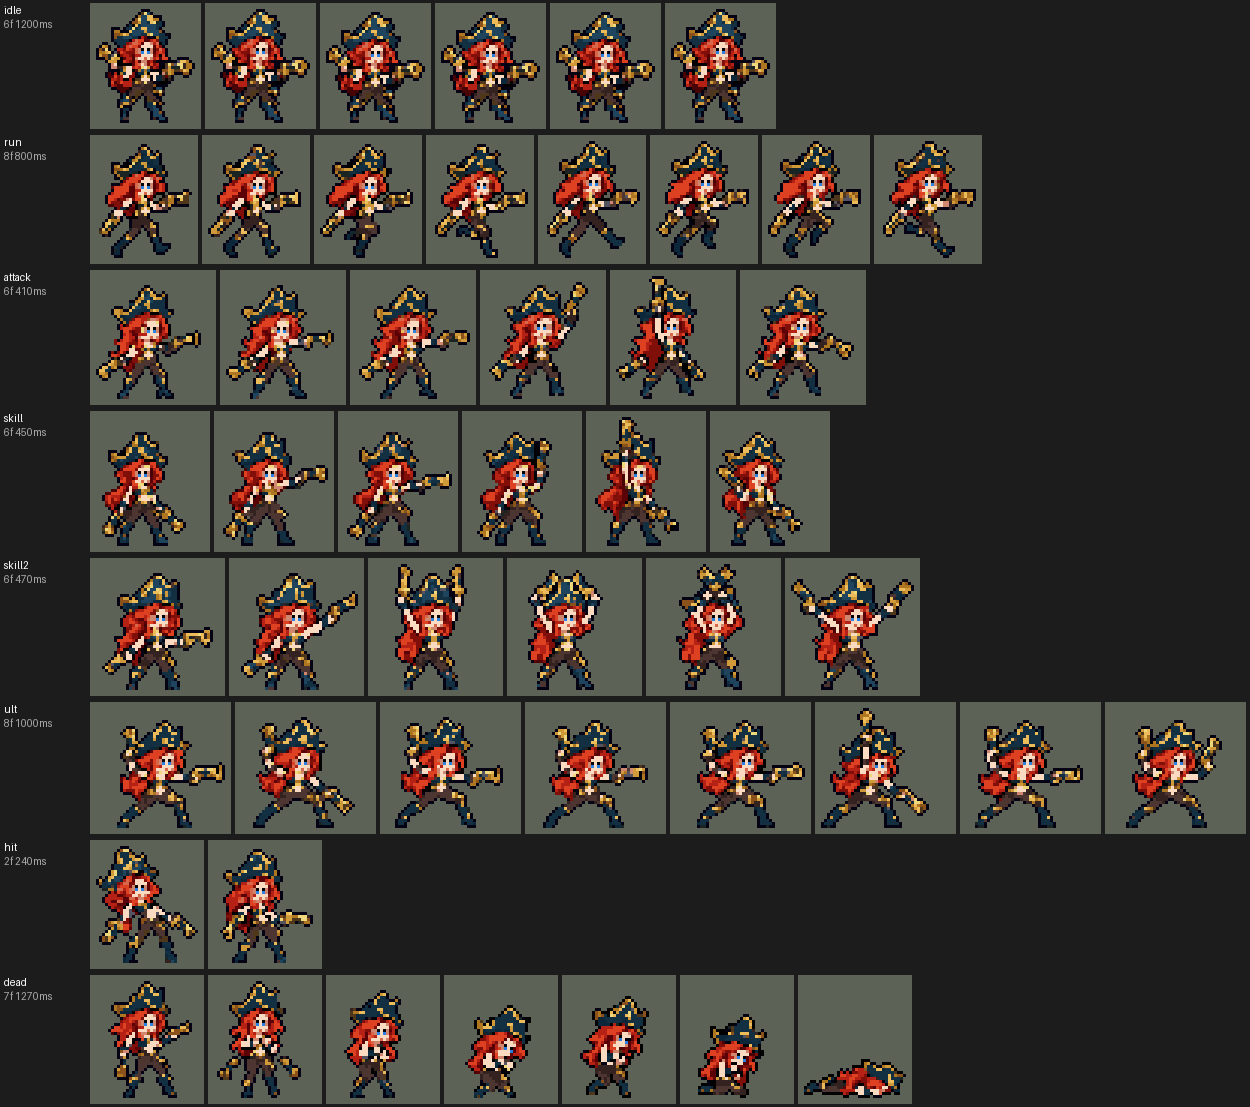
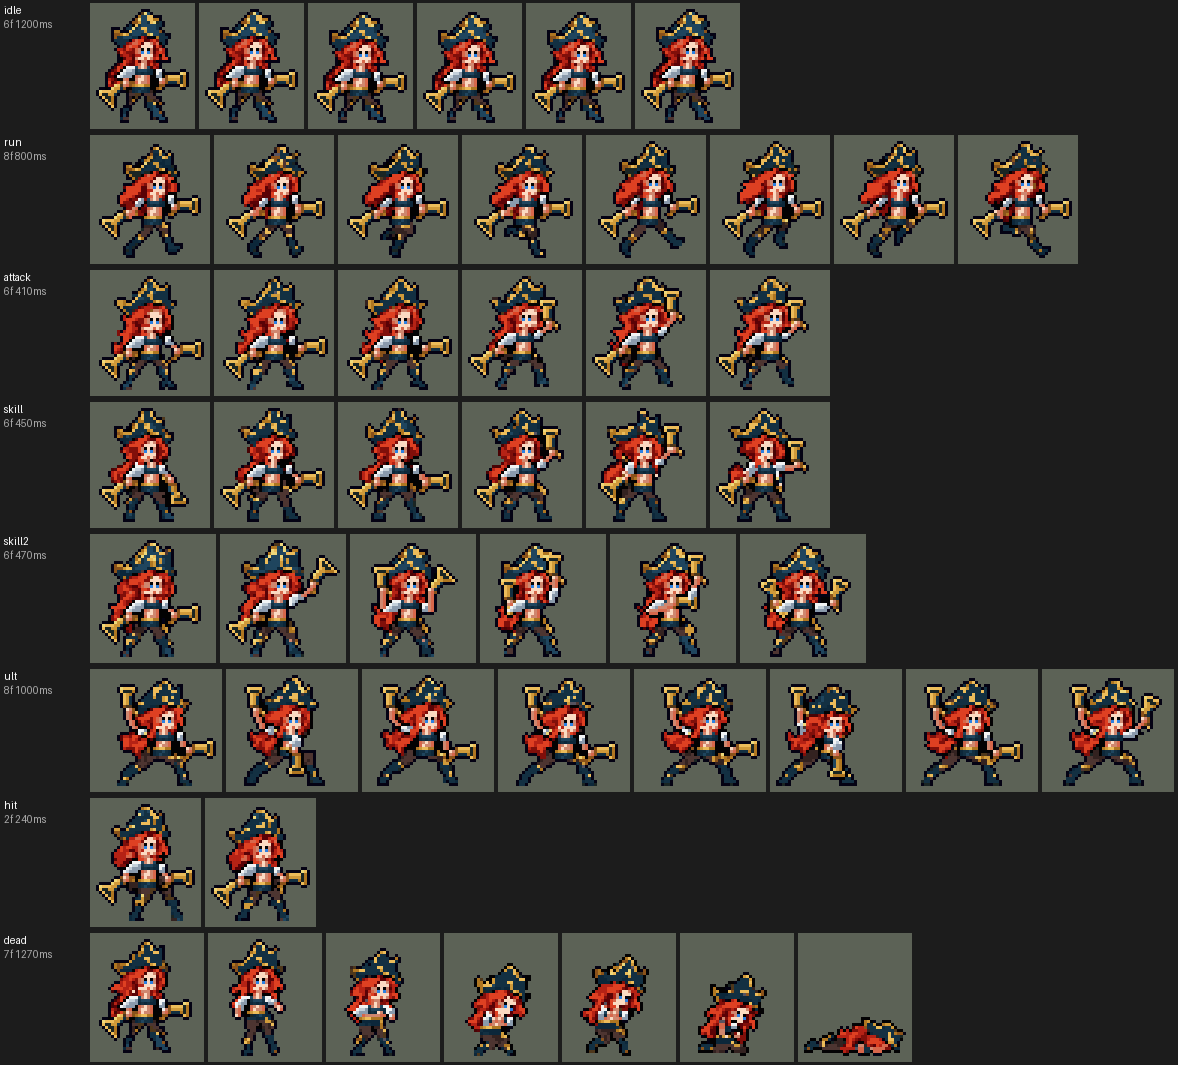
README and previews: Aatrox (#51) and Miss Fortune's model fix
The hero list and group 11's top, Aatrox's showcase and combos GIFs, his
section (kit, numbers, sprites, the airborne World Ender casts, how to
rebuild); Miss Fortune's sprite row notes today's traced model and
pistols; her previews re-rendered.

diff --git a/README.md b/README.md
@@ -2,7 +2,7 @@
 
 团战经理2（Teamfight Manager 2）的英雄联盟英雄 Mod，mod_id 是 `league`。纯数据 mod：不改游戏本体，不需要编译。
 
-英雄：盖伦（`league_garen`）、艾希（`league_ashe`）、拉克丝（`league_lux`）、李青（`league_leesin`）、索拉卡（`league_soraka`）、德莱厄斯（`league_darius`）、阿木木（`league_amumu`）、亚索（`league_yasuo`）、金克丝（`league_jinx`）、蕾欧娜（`league_leona`）、提莫（`league_teemo`）、易（`league_masteryi`）、安妮（`league_annie`）、厄运小姐（`league_missfortune`）、迦娜（`league_janna`）、墨菲特（`league_malphite`）、艾克（`league_ekko`）、永恩（`league_yone`）、伊泽瑞尔（`league_ezreal`）、锤石（`league_thresh`）、凯尔（`league_kayle`）、费德提克（`league_fiddlesticks`）、阿狸（`league_ahri`）、卢锡安（`league_lucian`）、莫甘娜（`league_morgana`）、锐雯（`league_riven`）、贝蕾亚（`league_briar`）、阿卡丽（`league_akali`）、薇恩（`league_vayne`）、娜美（`league_nami`）、贾克斯（`league_jax`）、黛安娜（`league_diana`）、维迦（`league_veigar`）、塔里克（`league_taric`）、崔丝塔娜（`league_tristana`）、菲奥娜（`league_fiora`）、菲兹（`league_fizz`）、萨科（`league_shaco`）、凯特琳（`league_caitlyn`）、魔腾（`league_nocturne`）、布里茨（`league_blitzcrank`）、卡蜜尔（`league_camille`）、乐芙兰（`league_leblanc`）、卡莎（`league_kaisa`）、娑娜（`league_sona`）、凯南（`league_kennen`）、蔚（`league_vi`）、瑞兹（`league_ryze`）、烬（`league_jhin`）、基兰（`league_zilean`）。每组上单、打野、中单、ADC、辅助各一：第一组盖伦、李青、拉克丝、艾希、索拉卡，第二组德莱厄斯、阿木木、亚索、金克丝、蕾欧娜，第三组提莫、易（无极剑圣）、安妮、厄运小姐、迦娜，第四组墨菲特、艾克、永恩、伊泽瑞尔、锤石，第五组有上单凯尔、打野费德提克、中单阿狸、ADC 卢锡安、辅助莫甘娜，第六组有上单锐雯、打野贝蕾亚、中单阿卡丽、ADC 薇恩、辅助娜美，第七组有上单贾克斯、中单维迦、ADC 崔丝塔娜、辅助塔里克，第八组有上单菲奥娜（剑姬，排在原定凯南的位置，凯南延后）、中单菲兹、ADC 凯特琳、辅助布里茨，第九组有上单卡蜜尔（青钢影）、打野魔腾、中单乐芙兰、ADC 卡莎、辅助娑娜。按用户 10 月 2 日排的顺序，打野黛安娜是第七组的，萨科是第八组的。第十组有上单凯南、打野蔚、中单瑞兹、ADC 烬、辅助基兰。
+英雄：盖伦（`league_garen`）、艾希（`league_ashe`）、拉克丝（`league_lux`）、李青（`league_leesin`）、索拉卡（`league_soraka`）、德莱厄斯（`league_darius`）、阿木木（`league_amumu`）、亚索（`league_yasuo`）、金克丝（`league_jinx`）、蕾欧娜（`league_leona`）、提莫（`league_teemo`）、易（`league_masteryi`）、安妮（`league_annie`）、厄运小姐（`league_missfortune`）、迦娜（`league_janna`）、墨菲特（`league_malphite`）、艾克（`league_ekko`）、永恩（`league_yone`）、伊泽瑞尔（`league_ezreal`）、锤石（`league_thresh`）、凯尔（`league_kayle`）、费德提克（`league_fiddlesticks`）、阿狸（`league_ahri`）、卢锡安（`league_lucian`）、莫甘娜（`league_morgana`）、锐雯（`league_riven`）、贝蕾亚（`league_briar`）、阿卡丽（`league_akali`）、薇恩（`league_vayne`）、娜美（`league_nami`）、贾克斯（`league_jax`）、黛安娜（`league_diana`）、维迦（`league_veigar`）、塔里克（`league_taric`）、崔丝塔娜（`league_tristana`）、菲奥娜（`league_fiora`）、菲兹（`league_fizz`）、萨科（`league_shaco`）、凯特琳（`league_caitlyn`）、魔腾（`league_nocturne`）、布里茨（`league_blitzcrank`）、卡蜜尔（`league_camille`）、乐芙兰（`league_leblanc`）、卡莎（`league_kaisa`）、娑娜（`league_sona`）、凯南（`league_kennen`）、蔚（`league_vi`）、瑞兹（`league_ryze`）、烬（`league_jhin`）、基兰（`league_zilean`）、亚托克斯（`league_aatrox`）。每组上单、打野、中单、ADC、辅助各一：第一组盖伦、李青、拉克丝、艾希、索拉卡，第二组德莱厄斯、阿木木、亚索、金克丝、蕾欧娜，第三组提莫、易（无极剑圣）、安妮、厄运小姐、迦娜，第四组墨菲特、艾克、永恩、伊泽瑞尔、锤石，第五组有上单凯尔、打野费德提克、中单阿狸、ADC 卢锡安、辅助莫甘娜，第六组有上单锐雯、打野贝蕾亚、中单阿卡丽、ADC 薇恩、辅助娜美，第七组有上单贾克斯、中单维迦、ADC 崔丝塔娜、辅助塔里克，第八组有上单菲奥娜（剑姬，排在原定凯南的位置，凯南延后）、中单菲兹、ADC 凯特琳、辅助布里茨，第九组有上单卡蜜尔（青钢影）、打野魔腾、中单乐芙兰、ADC 卡莎、辅助娑娜。按用户 10 月 2 日排的顺序，打野黛安娜是第七组的，萨科是第八组的。第十组有上单凯南、打野蔚、中单瑞兹、ADC 烬、辅助基兰。第十一组的上单亚托克斯（剑魔）。
 
 对敌人放的小技能，施放目标是「敌人（不含防御塔）」，清线、打野时也会放；只有大招、德莱厄斯的 E（拉人）、阿木木的 Q（绷带）、锤石的 Q（钩子）、阿狸的 E（魅惑）、薇恩的 E（恶魔审判）、维迦的 E（扭曲空间）、凯特琳的 W（约德尔诱捕器）、卡莎的 W（虚空索敌）和基兰的 E（时光发条）只对英雄放（莫甘娜的 Q 对什么都放，但射程内有敌方英雄时朝英雄射；贝蕾亚的 Q 也一样，射程内有敌方英雄时扑英雄；娜美的 W、Q 也是，射程内有敌方英雄时打英雄；黛安娜的 Q 也一样，射程内有敌方英雄时朝英雄射，E 带着月光再冲的第二下也先找英雄；菲奥娜的 Q、W 也一样，射程内有敌方英雄时冲向、刺向英雄；凯特琳的 Q 也一样，射程内有敌方英雄时朝英雄射；凯南的 Q 也一样，射程内有敌方英雄时锁定英雄射）；提莫的 W 是给自己加速和伪装，也只在敌方英雄靠近时放。最早几个英雄的小技能只对英雄放，打野时一直平 A 野怪，按玩家反馈改了。
 
@@ -96,6 +96,8 @@
 ![瑞兹演示：卢锡安站在他身后，他跑进场，双手推出符文法球打德莱厄斯；Q 超负荷：蓝色的符文光弹打中他；E → W → Q 连招：紫色的法术涌动在德莱厄斯身上炸开，涌动（紫色符文绕着胸口转）也挂到他身后的盖伦身上，符文禁锢的蓝色牢笼把带涌动的德莱厄斯困住，再一发超负荷引爆两人身上的涌动（闪电劈下、紫色爆开），腰间充好的两枚符文放出、脚下起风加速；德莱厄斯和盖伦往后撤，德莱厄斯跑出射程，R 曲境折跃追过去：脚下开一个传送门，另一个开在德莱厄斯脚边，引导一秒后他和站在门里的卢锡安一起传送过去（原地一道光柱，落地符文爆发，卢锡安身上一闪），落地补的法术涌动又给德莱厄斯挂上涌动](docs/preview/league_ryze_showcase.gif?v=1003ry2)
 ![烬演示：跑进场，低语连开三枪（抬枪时一闪，枪口青白色的火，金色子弹）；第四枪先耍一圈枪，玫红光环从枪口转出，暴击炸开花瓣，头顶的四颗子弹开始一颗颗装上；装弹时扔出曼舞手雷，打中德莱厄斯后翻滚着落到身后的盖伦身上再炸；W 致命华彩：先把莲花扔到德莱厄斯脚下，手杖枪射出紫色光晕的长弹，他被定身（脚下的玫瑰荆棘），莲花在他脚下开花、减速，2 秒后炸成火焰；R 完美谢幕：跪地架起大炮，身边升起玫红光幕，连开四炮，第四发暴击，德莱厄斯倒下，尸体上开出一朵莲花再炸开](docs/preview/league_jhin_showcase.gif?v=1003jh)
 ![基兰演示：卢锡安站在他身前，基兰飘进场，时光法球打德莱厄斯；Q 定时炸弹抛到德莱厄斯身上粘住（胸口的炸弹在倒计时），W 穿梭未来：身后的钟面倒转，再扔一颗，两颗炸弹一起爆，德莱厄斯和身后的盖伦被眩晕（头顶转着小金钟）；E 时光发条：德莱厄斯腰上紫色的钟圈减速，卢锡安脚下金色的钟圈加速，攒满的瓶子倒在卢锡安头上；再扔一颗炸弹粘在德莱厄斯身上，下一发法球打死他，炸弹当场爆炸、炸到盖伦；盖伦走到卢锡安身边，致命打击沉默他，R 时光倒流：基兰脚下亮起金色符文钟，卢锡安头顶挂上时光符文，盖伦转着砍他也死不了，5 秒后回溯回血](docs/preview/league_zilean_showcase.gif?v=1003zl)
+![亚托克斯演示：他走进场砍两刀，强化普攻（赐死剑气）的剑光；暗裔利刃三段：蓄力时地上先出警示，暗影冲决在蓄力中途冲刺，再一剑劈下（剑刃边缘的火柱和击飞）；恶火束链：爪子甩出锁链缠住德莱厄斯，地上的圈 1.5 秒后把他拖回圈心；大灭：展开双翼腾空，翅膀光环，开大后的普攻和 Q 都在空中出招，击杀刷新](docs/preview/league_aatrox_showcase.gif)
+![亚托克斯连招：Q1 → W → Q2 → Q3（锁链把人拖回圈心再吃满 Q3）；Q1 → 普攻 → Q2 → 强化普攻 → Q3；R → Q1 → Q2 → Q3（空中出招，击杀刷新大招）](docs/preview/league_aatrox_combos.gif)
 
 ## 英雄：盖伦
 
@@ -605,7 +607,7 @@ python tools/art/preview_annie.py
 | 大招 | R「弹幕时间」：原地引导 3 秒，朝施放时锁定的方向（`Position` 施法）连射 12 波，每波对 50° 锥形（±25°，`Forward` + `DirDot`，长 100000）内的敌人造成 15 + 45% 攻击力的物理伤害，动作类型是普攻，所以每波都吃暴击率。模拟里眩晕打断不了已经排好的延时效果，所以每一波先找"自己身边 1 格内被控制的友方英雄"（就是她自己）：被眩晕、禁锢、击飞、击退、恐惧、魅惑时下一波起停止；她死了也停（每波检查引导 buff）。只对英雄放，冷却 50 秒。2026-10-01 加宽：原来是 40°（±20°），而且只管画面的矩形（`LineRangeProjectile` 100000 × 36000，没有效果）作用对象写的是敌人，AI 把它当成要躲的技能，每一波都往两边让、让出了锥形：下路 144 局里每次 R 打中英雄 4.75 次（每波 0.43 个，三分之二的波一个英雄都没打中），射程内敌方英雄偏离中线的中位角度从第 1 波的 5° 涨到第 12 波的 50°。只加宽锥形帮助不大（±25° 5.1 次、±30° 5.4 次、±35° 5.7 次），矩形改窄到 1000 宽、锥形 ±25° 是 6.6 次；现在锥形 ±25°，矩形只作用于友方（`applied_target: Ally`，大小和画面不变；敌人不再躲它，友方也没有去躲）：每次 R 7.1 次（每波 0.67 个）。击杀差两批 +3.34 / +2.78（改前 +2.77 / +3.09，在两批之间的波动以内），造成的伤害多 5% |
 | 数值 | 攻击 100（+20）、生命 900（+90）、护甲 20（+7）、魔抗 15（+3）、移速 900（+9），攻击间隔 1 秒，和原版射手一样。没有其他 mod 做过她，数值是自己设计的，用 SDK 对战模拟调：打下路，三套队友阵容、两边各 36 局，团队击杀差 +4.41；原版射手 `gunner` +3.43、`soldier` +2.74、`archer` +2.43、`gambler` +1.91，本包艾希 +3.78、金克丝 +4.19。按美术定下的出手帧（普攻、Q、E、R 都在第 8 tick），初版（被动 60%、E 冷却 9 秒）是 +5.50，改成被动 40%、E 冷却 10 秒。再把 R 每波降到 40% 是 +4.47，没有差别，所以 R 保持 45%。Q 改成宽子弹找第二个目标后是 +4.39（同样的局，修前 +4.41），伤害略高，数值不用动 |
 | 亚索联动 | 她只有减速，不算亚索大招要的控制，亚索不用调 |
-| 精灵图 | 8 个动作 49 帧：待机、跑步、普攻、Q、E、R、受击、死亡。帽顶到脚底 36 px（原版戴帽子的赌徒 36、枪手 37 也把帽子算在内），23 色，动作全部取自英雄联盟原版动画 |
+| 精灵图 | 2026-10-04 用户在游戏里看到待机「有点怪异」（白色 T 形的肚皮、远侧手臂一块白、左上的枪像飘在头发边）：照英雄联盟原版在游戏尺寸下描（`tools/art/fix_missfortune_model.py`，逐帧补丁在 `assets/source/missfortune/modelfix/`），有明暗的腰腹、白布喇叭袖和前臂，枪拿在英雄联盟的位置（远侧垂在大腿边、近侧在腰间）；枪改成带握把和喇叭口的手枪，一个持枪姿势里只用一张图（「武器不自然啊」「右边的枪移动时变形」）。8 个动作 49 帧：待机、跑步、普攻、Q、E、R、受击、死亡。帽顶到脚底 36 px（原版戴帽子的赌徒 36、枪手 37 也把帽子算在内），23 色，动作全部取自英雄联盟原版动画 |
 | 特效 | 普攻子弹、红心子弹、普攻命中、红心爆开、Q 子弹、Q 命中、弹射命中（带红心）、暴击爆炸、大步流星、弹雨区域、R 的扇形弹幕、R 命中火花 |
 | 图标 | 官方技能图标（Q / E / R），64×64 |
 | 音频 | 从本地客户端提取的 10 条技能音效和 3 条中文语音（Q、W、R；E 没有语音，E 的施放音带 W 的台词）。不提交到仓库，按下面的命令在本地生成 |
@@ -2103,6 +2105,32 @@ python tools/art/preview_zilean.py
 - 特效用 Codex 画的 19 种（110 帧，生图原稿，`import_zilean.py --raw` 同瑞兹：每个游戏像素取覆盖的原稿像素里最多的颜色，四分之一以上不透明才画，颜色归到包里的青、金、紫三套色阶，光效外圈最暗的一档去掉；炸弹、瓶子、符文是实物，保留自己的暗边）。Codex 自己按 8 px 网格读回的条图格数太少（双炸弹爆炸只有 38 格宽，要 64），所以从原稿重读；4 × 2 排版的原稿格边混进来的邻格碎片去掉；大招符文原稿每格往左漂，按钟面逐帧对齐。位置：普攻、Q、E 的出手闪光在手上 (18, −6)、举起的手 (16, −21)、(15, −5)，命中和粘着的炸弹在上半身 (0, −8)，眩晕的三只小钟在头顶 (0, −33)，减速的钟圈在腰上，加速圈、大招的符文钟和地上的炸弹在脚下，W 倒转的钟面在他身后 (−1, −9)，爆炸的闪光在地面圈正上方（地面圈落在脚下），瓶子的光流落到头顶 (0, −27)，符文的钟在头顶上方 (0, −23)，回溯的光柱从脚下升起。时长：粘着的炸弹 4 帧 × 125 ms（技能每 30 tick 重放一次），地上的炸弹 3 秒（前 10 帧转两圈，最后两帧变亮），单炸弹爆炸 0.49 秒、双炸弹 0.6 秒，眩晕 1.25 秒，减速、加速、符文跟着状态循环。
 
 逐帧预览：[`docs/preview/league_zilean_frames.png`](docs/preview/league_zilean_frames.png)，特效：[`docs/preview/league_zilean_effects.png`](docs/preview/league_zilean_effects.png)。
+
+## 英雄：亚托克斯
+
+| 部分 | 内容 |
+|---|---|
+| 定位 | 上单（近战战士，分类 Melee），用户 10 月 2 日排的第十一组的上单。暗裔剑魔：三段 Q 的剑刃边缘击飞，W 锁链把人拖回圈心，R 恶魔形态腾空作战 |
+| 普攻 / 被动 | 普攻 100% 攻击力，射程 26000。被动「赐死剑气」：每 10 秒强化一次普攻，额外 25 + 英雄 6% 最大生命值的伤害并回血；命中英雄冷却 −2 秒，剑刃边缘命中 −4 秒。对英雄的伤害回复 18%（E 的被动并入） |
+| 技能1 | Q「暗裔利刃」：可连放三段，形状各异（Q1 长条、Q2 扇形、Q3 圆形砸地），每段 +25%，100 + 160% 物理伤害；剑刃边缘命中再 +60% 并击飞。蓄力的整个过程地上都有警示，劈下前锁定方向，走开就能躲。E「暗影冲决」并入 Q：就绪时在蓄力中途冲刺，把敌人送到剑刃边缘 |
+| 技能2 | W「恶火束链」：甩出锁链，第一个敌人受到 40 + 40% 物理伤害；被锁住的英雄 1.5 秒后被拖回圈心再受一次伤害（用户要求去掉了减速）。扩展包 `league_aatrox_chain` 判断他是否已经走出圈：走出去了才不拖 |
+| 大招 | R「大灭」：显现恶魔形态 10 秒，恐惧附近的小兵和野怪，攻击力 +25%，自我治疗 +50%，移速 +45% 并逐渐衰减；击杀英雄刷新持续时间。开大期间普攻、强化普攻、W 和三段 Q 都换成空中版本：起手离地，出招时飘在空中（离地 2–11 格，照英雄联盟 ULT 动画的高度），Q 俯冲砸地，收招落回地面。引擎不能在运行时换待机和走路的动画，所以不出招时脚在地上，背后的翅膀光环一直在 |
+| 数值 | 攻击 100（+22）、生命 1100（+105）、护甲 36（+8）、魔抗 26（+4）、移速 1030（+10）。数值是自己设计的，用 SDK 对战模拟调：上单，对 5 个原版上单，三套队友阵容、两边各 24 局。W 去掉减速后击杀差 +1.59（带 25% 减速时 +1.69） |
+| 精灵图 | 待机、移动、普攻、强化普攻、Q1–Q3、W、R 变身、开大的普攻 / 强化普攻 / W / Q1–Q3、受击、死亡。造型是 Codex 的生图草稿按格子读回到 40 行（`design_aatrox.py`），头和巨剑来自第一版；第 7 步补齐身上的透底小洞、两个膝盖至少两格、描边闭合。跑步、普攻、强化普攻、W、受击、死亡用待机自己的部件摆出来（`rig_aatrox.py`：手肘在臂长之内弯曲，巨剑不重采样、只用精确的方向，跑步左右腿交替、红色护甲片跟着大腿）；Q1–Q3 是 Codex 画的；开大的空中动作用 `air_aatrox.py` 从这些通过的帧拼出（腰部以上不动，待机的腿下垂，翅膀用通过的光环） |
+
+重新生成：
+
+```bash
+python tools/art/design_aatrox.py        # 造型
+python tools/art/rig_aatrox.py           # 待机、跑步、普攻、强化普攻、W、受击、死亡
+python tools/art/import_redo_aatrox.py   # Codex 的 Q1–Q3（之后要再跑 air_aatrox.py）
+python tools/art/air_aatrox.py           # 开大的空中动作和变身
+python tools/art/import_native.py --hero aatrox
+python tools/art/warn_aatrox.py && python tools/art/chain_aatrox.py && python tools/art/import_aatrox.py   # 特效
+python tools/art/preview_aatrox.py
+```
+
+逐帧预览：[`docs/preview/league_aatrox_frames.png`](docs/preview/league_aatrox_frames.png)，特效：[`docs/preview/league_aatrox_effects.png`](docs/preview/league_aatrox_effects.png)。
 
 ## 选人卡片位置（`banpick_center`）
 
